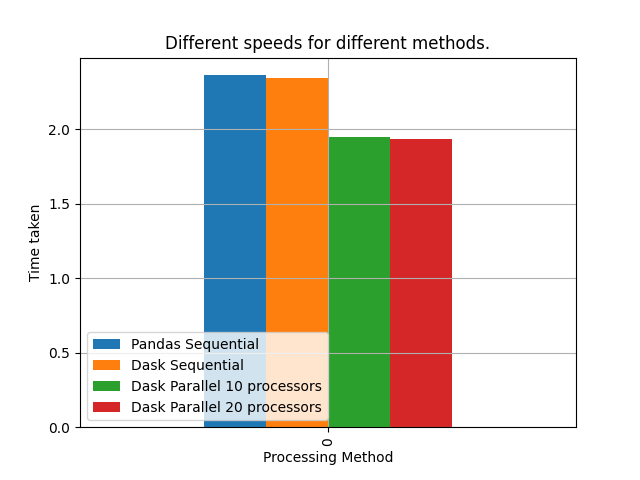
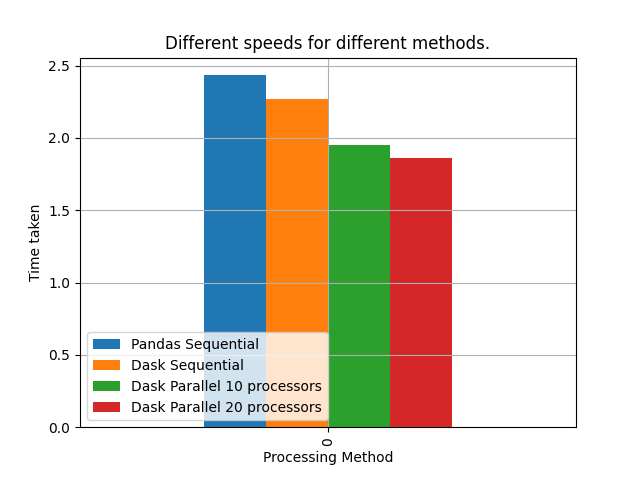
big data
big data time

diff --git a/1a.py b/1a.py
@@ -1,0 +1,274 @@
+import pandas as pd
+import numpy as np
+import time
+
+import hvplot
+import holoviews as hv
+import hvplot.dask
+
+import dask
+import dask.dataframe as dd
+import dask.array as da
+import dask.bag as db
+from dask.distributed import Client
+
+import matplotlib.pyplot as plt
+import matplotlib.ticker as ticker
+
+from sklearn.model_selection import train_test_split  # for splitting data
+from sklearn.linear_model import PoissonRegressor  # for Poisson regression
+from sklearn.preprocessing import PolynomialFeatures  # for polynomial features
+from sklearn.linear_model import LogisticRegression  # for logistic regression
+from sklearn.linear_model import LinearRegression  # for linear regression
+# i imported them all so i can switch between them and see
+
+from sklearn.metrics import mean_squared_error
+
+
+# apparently this helps us during regression
+
+def pandas_test():
+    df1 = pd.read_csv('trips_by_distance.csv')  # import one csv file, this one's big
+    df2 = pd.read_csv('trips_full_data.csv')  # import the other csv file which is smaller
+
+    # print(df1)
+    # print(df2)
+
+    # How many people are staying at home?
+
+    # print(df1.groupby(by='Week')['Population Staying at Home'].mean())
+
+    dfa1 = df1.dropna()  # clean nulls
+    dfa1.drop_duplicates(subset=['Row ID'], keep='first', inplace=True)  # clean duplicates
+    dfa1 = dfa1.groupby(by='Population Staying at Home')['Week'].mean().hist(
+        bins=44)  # turn into mean average dataframe then make it a histogram
+    # self-explanatory beyond this
+    dfa1.set_title("How many people are staying at home per week?")
+    dfa1.set_xlabel("Week")
+    dfa1.set_ylabel("Population Staying at Home")
+    plt.savefig('histogram_a1.png')
+    plt.clf()  # clear matplotlib cache or whatever
+
+    # How far are people travelling when they don't stay home?
+
+    dfa2 = df2[['Trips 1-25 Miles', 'Trips 1-3 Miles', 'Trips 10-25 Miles',
+                'Trips 100-250 Miles', 'Trips 100+ Miles', 'Trips 25-100 Miles',
+                'Trips 25-50 Miles', 'Trips 250-500 Miles', 'Trips 250-500 Miles',
+                'Trips 3-5 Miles', 'Trips 5-10 Miles',
+                'Trips 50-100 Miles', 'Trips 500+ Miles']]  # select these rows only
+    dfa2 = dfa2.mean()  # average them out
+
+    xvalues = ['Trips 1-25 Miles', 'Trips 1-3 Miles', 'Trips 10-25 Miles',
+               'Trips 100-250 Miles', 'Trips 100+ Miles', 'Trips 25-100 Miles',
+               'Trips 25-50 Miles', 'Trips 250-500 Miles', 'Trips 250-500 Miles',
+               'Trips 3-5 Miles', 'Trips 5-10 Miles',
+               'Trips 50-100 Miles', 'Trips 500+ Miles']  # to help the graph later
+    yvalues = dfa2.tolist()  # convert dataframe values to list for graph
+
+    # the histogram gets plotted
+    plt.figure(figsize=(10, 6))  # good for controlling the size of our bars
+    plt.bar(xvalues, yvalues)  # bars get actual x value and y value from before
+    plt.xlabel('Trip Distance Range')  # x-axis label
+    plt.ylabel('Average Number of Trips')  # y-axis label
+    plt.title('Distribution of Trips by Distance Range')  # plot title, what this graph is talking about
+    plt.yscale(
+        'log')  # logarithmic scaling to y-axis for better visualization of large values, it looks a lot more beautiful than linear scaling in testing
+
+    # another histogram gets plotted
+    plt.xticks(rotation=45, ha='right')  # rotate x-axis labels so you can read them better
+    plt.tight_layout()  # it makes it look better, but i don't quite know why though
+    plt.savefig('histogram_a2.png')  # save it
+    plt.clf()  # clear matplotlib cache or whatever
+
+    # The dates that > 10000000 people conducted 10-25 number of trips
+
+    dfb1 = df1[df1['Number of Trips 10-25'] > 10000000]  # i only will want more than 10,000,000 in the values
+    dfb1 = dfb1.reset_index(drop=True)  # reset the new index
+    dfb1.plot(kind='scatter', x='Date', y='Number of Trips 10-25')  # scatter plot for date against frequency of this
+    plt.title("Number of Trips 10-25 across time")  # correct title
+    plt.xlabel("Date")  # correct label
+    plt.gca().xaxis.set_major_locator(
+        ticker.AutoLocator())  # if i don't do this, the labels for date make up a solid black blob
+    plt.ylim(100000000, 260000000)  # y limit is helpful otherwise you will see rubbish in the plot
+    plt.savefig('scatterplot_b1.png')  # save
+    plt.clf()  # clear matplotlib cache or whatever
+
+    dfb2 = df1[df1['Number of Trips 50-100'] > 10000000]  # i only will want more than 10,000,000 in the values
+    dfb2 = dfb2.reset_index(drop=True)  # reset the new index
+    dfb1.plot(kind='scatter', x='Date', y='Number of Trips 50-100')  # scatter plot for date against frequency
+    plt.title("Number of Trips 50-100 across time")  # correct title
+    plt.xlabel("Date")  # correct label
+    plt.gca().xaxis.set_major_locator(
+        ticker.AutoLocator())  # if i don't do this, the labels for date make up a solid black blob
+    plt.ylim(10000000, 30000000)  # y limit is helpful otherwise you will see rubbish in the plot
+    plt.savefig('scatterplot_b2.png')  # save
+    plt.clf()  # clear matplotlib cache or whatever
+
+
+def dask_test(schedulerIn, processors):
+    with ((dask.config.set(scheduler=schedulerIn, n_workers=processors))):
+        start_time_dask = time.time()  # so we can know how long this dask instance takes
+        dfd1a1 = dd.read_csv('trips_by_distance.csv', blocksize=16e6, dtype={'Population Staying at Home': 'float64',
+                                                                             'Week': 'int64',
+                                                                             'County Name': 'object',
+                                                                             'Number of Trips': 'float64',
+                                                                             'Number of Trips 1-3': 'float64',
+                                                                             'Number of Trips 10-25': 'float64',
+                                                                             'Number of Trips 100-250': 'float64',
+                                                                             'Number of Trips 25-50': 'float64',
+                                                                             'Number of Trips 250-500': 'float64',
+                                                                             'Number of Trips 3-5': 'float64',
+                                                                             'Number of Trips 5-10': 'float64',
+                                                                             'Number of Trips 50-100': 'float64',
+                                                                             'Number of Trips <1': 'float64',
+                                                                             'Number of Trips >=500': 'float64',
+                                                                             'Population Not Staying at Home': 'float64',
+                                                                             'State Postal Code': 'object'
+                                                                             })  # 16 megabyte chunks dataframe
+        dfd1a1 = dfd1a1.dropna()  # remove nulls
+        dfd1a1 = dfd1a1[['Population Staying at Home', 'Week']]  # select only these rows
+        dfd1a1 = dfd1a1.groupby(by='Population Staying at Home')['Week'].mean()  # average it out
+
+        dfd1b1 = dd.read_csv('trips_by_distance.csv', blocksize=16e6, dtype={'Population Staying at Home': 'float64',
+                                                                             'Week': 'int64',
+                                                                             'County Name': 'object',
+                                                                             'Number of Trips': 'float64',
+                                                                             'Number of Trips 1-3': 'float64',
+                                                                             'Number of Trips 10-25': 'float64',
+                                                                             'Number of Trips 100-250': 'float64',
+                                                                             'Number of Trips 25-50': 'float64',
+                                                                             'Number of Trips 250-500': 'float64',
+                                                                             'Number of Trips 3-5': 'float64',
+                                                                             'Number of Trips 5-10': 'float64',
+                                                                             'Number of Trips 50-100': 'float64',
+                                                                             'Number of Trips <1': 'float64',
+                                                                             'Number of Trips >=500': 'float64',
+                                                                             'Population Not Staying at Home': 'float64',
+                                                                             'State Postal Code': 'object'
+                                                                             })  # just grab the same file again, but not null like the last one
+
+        dfd2 = dd.read_csv('trips_full_data.csv', blocksize=20e6)  # the tiny file is only 300 KB, 20e6 is for nothing
+        dfd2a1 = dfd2[['Trips 1-25 Miles', 'Trips 1-3 Miles', 'Trips 10-25 Miles',
+                       'Trips 100-250 Miles', 'Trips 100+ Miles', 'Trips 25-100 Miles',
+                       'Trips 25-50 Miles', 'Trips 250-500 Miles', 'Trips 250-500 Miles',
+                       'Trips 3-5 Miles', 'Trips 5-10 Miles',
+                       'Trips 50-100 Miles', 'Trips 500+ Miles']].mean()  # just these columns then average them
+
+        dfd1a2, dfd1b2, dfd2a2 = dask.compute(dfd1a1, dfd1b1, dfd2a1)  # compute them all parallel at the same time
+
+        dfda1 = dfd1a2.to_frame()  # import as a dataframe not series
+        dfda1.plot.hist(bins=44, column=[
+            "Week"])  # the column flag is there for the histogram because this wouldn't work otherwise
+        plt.title("How many people are staying at home per week?")  # correct title
+        plt.xlabel("Week")  # correct x axis label
+        plt.ylabel("Population Staying at Home")  # correct y axis label
+        plt.savefig('histogram_a1d.png')  # save it
+        plt.clf()  # clear matplotlib cache or whatever
+
+        dfda2 = dfd2a2  # grab the output of previous dask compute
+        xvalues = ['Trips 1-25 Miles', 'Trips 1-3 Miles', 'Trips 10-25 Miles',
+                   'Trips 100-250 Miles', 'Trips 100+ Miles', 'Trips 25-100 Miles',
+                   'Trips 25-50 Miles', 'Trips 250-500 Miles', 'Trips 250-500 Miles',
+                   'Trips 3-5 Miles', 'Trips 5-10 Miles',
+                   'Trips 50-100 Miles', 'Trips 500+ Miles']  # setting up our bar chart
+        yvalues = dfda2  # reassign name to yvalues for readability in the following functions
+        plt.figure(figsize=(10, 6))  # helps it look neat
+        plt.bar(xvalues, yvalues)  # bars out of values, a bar for each x value, and it has y value height
+        plt.xlabel('Trip Distance Range')  # correct x axis label
+        plt.ylabel('Average Number of Trips')  # correct y axis label
+        plt.title('Distribution of Trips by Distance Range')  # correct title
+        plt.yscale('log')  # logarithmic scale actually makes sense here
+
+        plt.xticks(rotation=45, ha='right')  # rotate x-axis labels so they can be read easier
+        plt.tight_layout()  # looks nicer
+        plt.savefig('histogram_a2d.png')  # save it
+        plt.clf()  # clear matplotlib cache or whatever
+
+        dfdb1 = dfd1b2[dfd1b2['Number of Trips 10-25'] > 10000000]  # just want the 10,000,000 or above data points
+        dfdb1 = dfdb1.reset_index(drop=True)  # reset our new df indices
+        dfdb1.plot(kind='scatter', x='Date', y='Number of Trips 10-25')  # scatter plot
+        plt.title("Number of Trips 10-25 across time")  # correct title
+        plt.xlabel("Date")  # correct label
+        plt.gca().xaxis.set_major_locator(ticker.AutoLocator())  # the date ticks become so much spam otherwise
+        plt.ylim(100000000, 260000000)  # get rid of the rubbish at the bottom
+        plt.savefig('scatterplot_b1d.png')  # save
+        plt.clf()  # clear matplotlib cache or whatever
+
+        dfdb2 = dfd1b2[dfd1b2['Number of Trips 50-100'] > 10000000]  # just want the 10,000,000 or above data points
+        dfdb2 = dfdb2.reset_index(drop=True)  # reset our new df indices
+        dfdb2.plot(kind='scatter', x='Date', y='Number of Trips 50-100')  # scatter plot
+        plt.title("Number of Trips 50-100 across time")  # correct title
+        plt.xlabel("Date")  # correct label
+        plt.gca().xaxis.set_major_locator(ticker.AutoLocator())  # the date ticks become so much spam otherwise
+        plt.savefig('scatterplot_b2d.png')  # save
+        plt.clf()  # clear matplotlib cache or whatever
+
+        dask_time = time.time() - start_time_dask  # we finished, save the time, that's important
+        return dask_time  # send it back so we can map the cpu time
+
+
+if __name__ == "__main__":  # quirky programmer convention where you can import this file without running everything in it
+
+    pd.set_option('display.max_columns',
+                  None)  # this and the line below enabled debugging, without it i'd get the ... which was super annoying.
+    pd.set_option('display.max_rows', None)
+    n_processors = [('single-threaded', 10), ('threads', 10), (
+        'threads', 20)]  # behold my TEST CASES for dask. sequential, parallel with 10, and parallel with 20 processors.
+    n_processors_time = {}  # for later of course.
+    start_time_pandas = time.time()  # just pandas benchmark
+    pandas_test()  # run the pandas version of this program
+    pandas_time = time.time() - start_time_pandas  # end benchmark
+    n_processors_time['pandas-single-threaded', 0] = pandas_time  # store the first test case.
+
+    for scheduler, processor in n_processors:  # try everything
+        n_processors_time[scheduler, processor] = dask_test(scheduler, processor)  # dask benchmark
+
+    print(n_processors_time)  # debug for time, show actual performance across all these.
+
+    # cpu time chart
+    plotOut = pd.DataFrame(n_processors_time, index=[0]).plot(kind='bar',
+                                                              grid=True)  # pass the dict as if it were a dataframe
+    plotOut.legend(
+        ["Pandas Sequential", "Dask Sequential", "Dask Parallel 10 processors", "Dask Parallel 20 processors"],
+        loc='lower left')  # so the graph makes sense to a human
+    plt.xlabel("Processing Method")  # correct x label
+    plt.ylabel("Time taken")  # correct y label
+    plt.title("Different speeds for different methods.")  # correct title
+    # plt.xticks()  # i was gonna use this but i forgot how and didn't bother
+    plt.savefig('cpu_time.png')  # save it
+
+    # MODEL TIME
+
+    # people in relation to distance imported with pandas, nulls erased, relevant columns extracted and summated.
+    data1 = pd.read_csv("trips_by_distance.csv")
+    data1.dropna(inplace=True)
+    data1 = data1[['Number of Trips <1', 'Number of Trips 1-3', 'Number of Trips 3-5', 'Number of Trips 5-10',
+                   'Number of Trips 10-25', 'Number of Trips 25-50', 'Number of Trips 50-100',
+                   'Number of Trips 100-250',
+                   'Number of Trips 250-500', 'Number of Trips >=500']].sum()
+
+    # people in relation to trips imported with pandas, nulls erased, relevant columns extracted and summated.
+    data2 = pd.read_csv("trips_full_data.csv")
+    data2.dropna(inplace=True)
+    data2 = data2[['Trips 1-25 Miles', 'Trips 1-3 Miles', 'Trips 10-25 Miles', 'Trips 100-250 Miles',
+                   'Trips 25-50 Miles', 'Trips 250-500 Miles', 'Trips 3-5 Miles', 'Trips 5-10 Miles',
+                   'Trips 50-100 Miles', 'Trips <1 Mile', 'Trips 500+ Miles']].sum()
+
+    y = data1.values
+    X = data2[:-1].values.reshape(-1, 1)  # if i leave the last value in then a mystical creature called ValueError will appear.
+
+    # x_train, x_test, y_train, y_test = train_test_split(x, y, test_size=0.2, random_state=42)  # seperate data for training. commented out because useless.
+
+    model = LinearRegression()  # our model
+    model.fit(X, y)  # fitting our data to the model
+    r_sq = model.score(X, y)  # the r^2 score for evaluation
+    y_pred = model.predict(X)  # predict the response
+    mse = mean_squared_error(y, y_pred)  # mean squared error for evaluation
+
+    print(f"coefficient of determination: {r_sq}")
+    print(f"mean square error: {mse}")
+    print(f"intercept: {model.intercept_}")
+    print(f"coefficients: {model.coef_}")
+    print(f"predicted response:\n{y_pred}")
+
+    # finished!!!!
